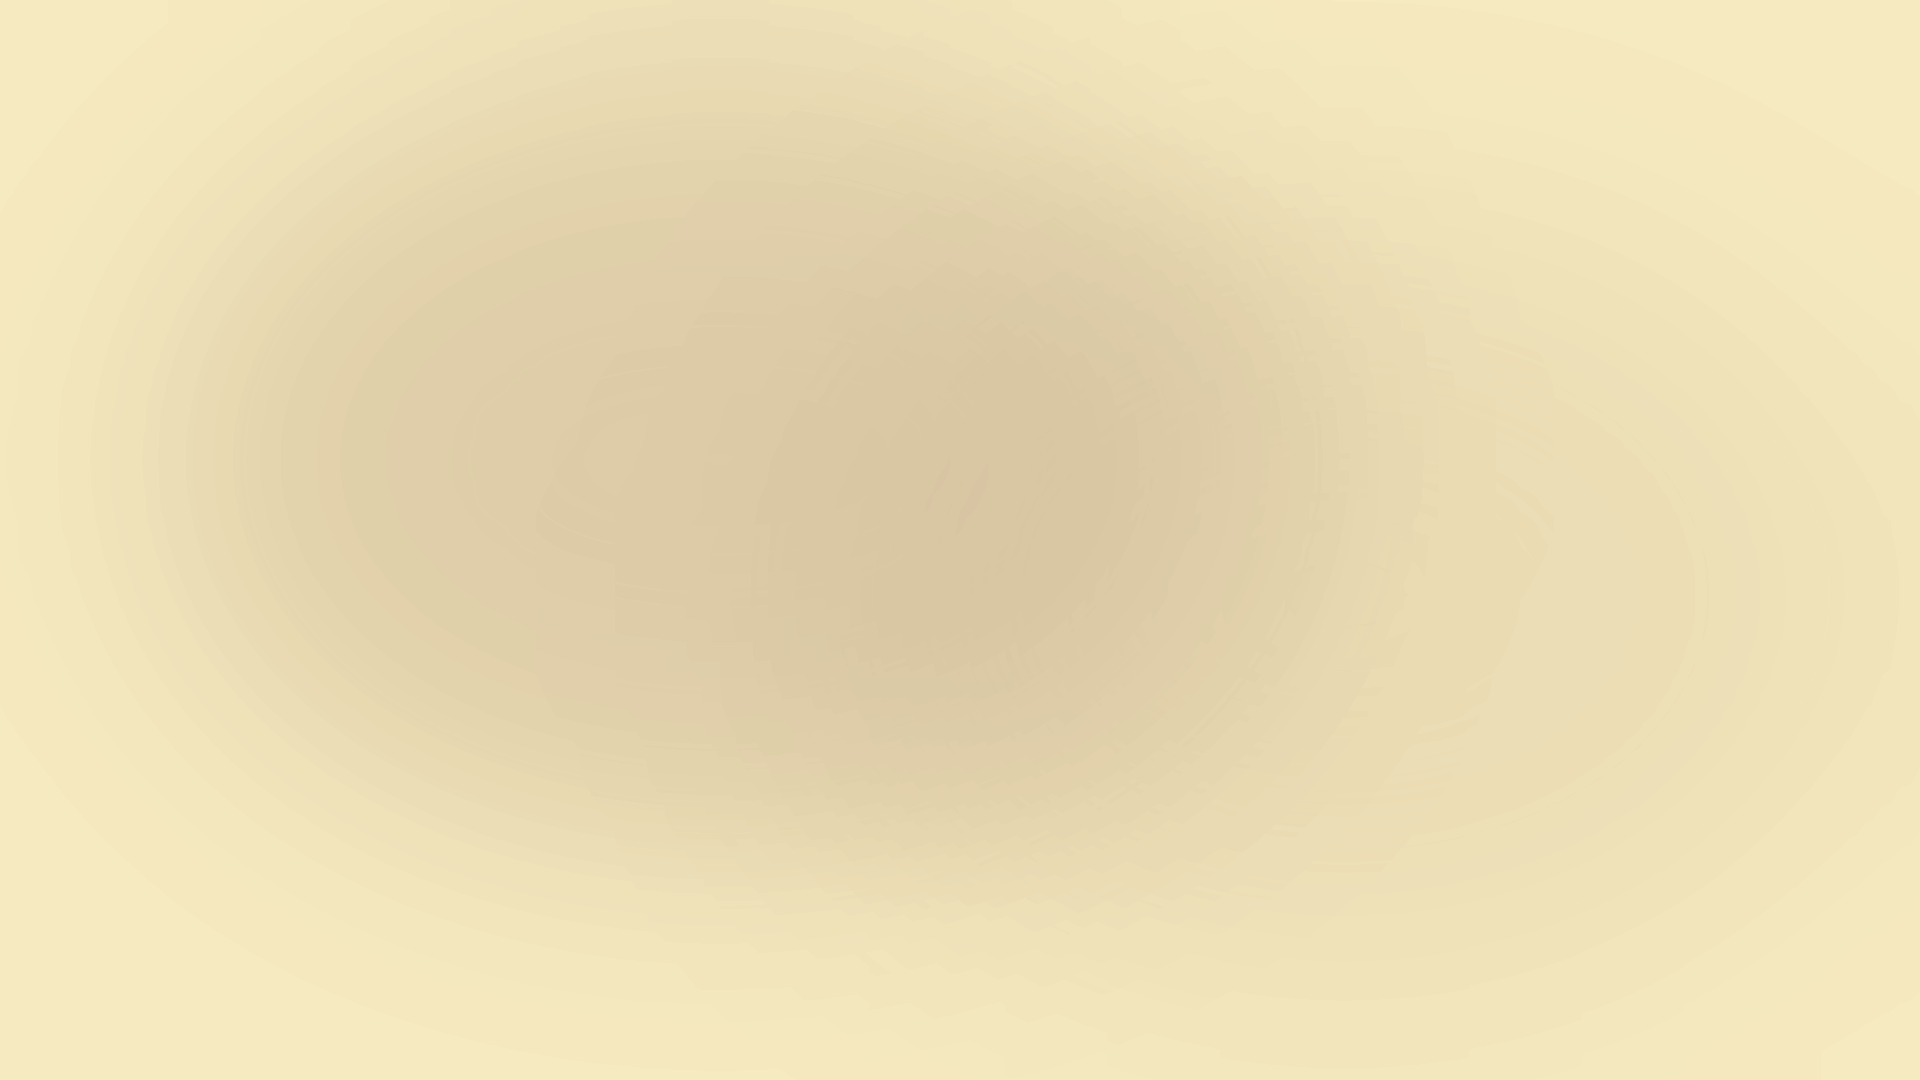
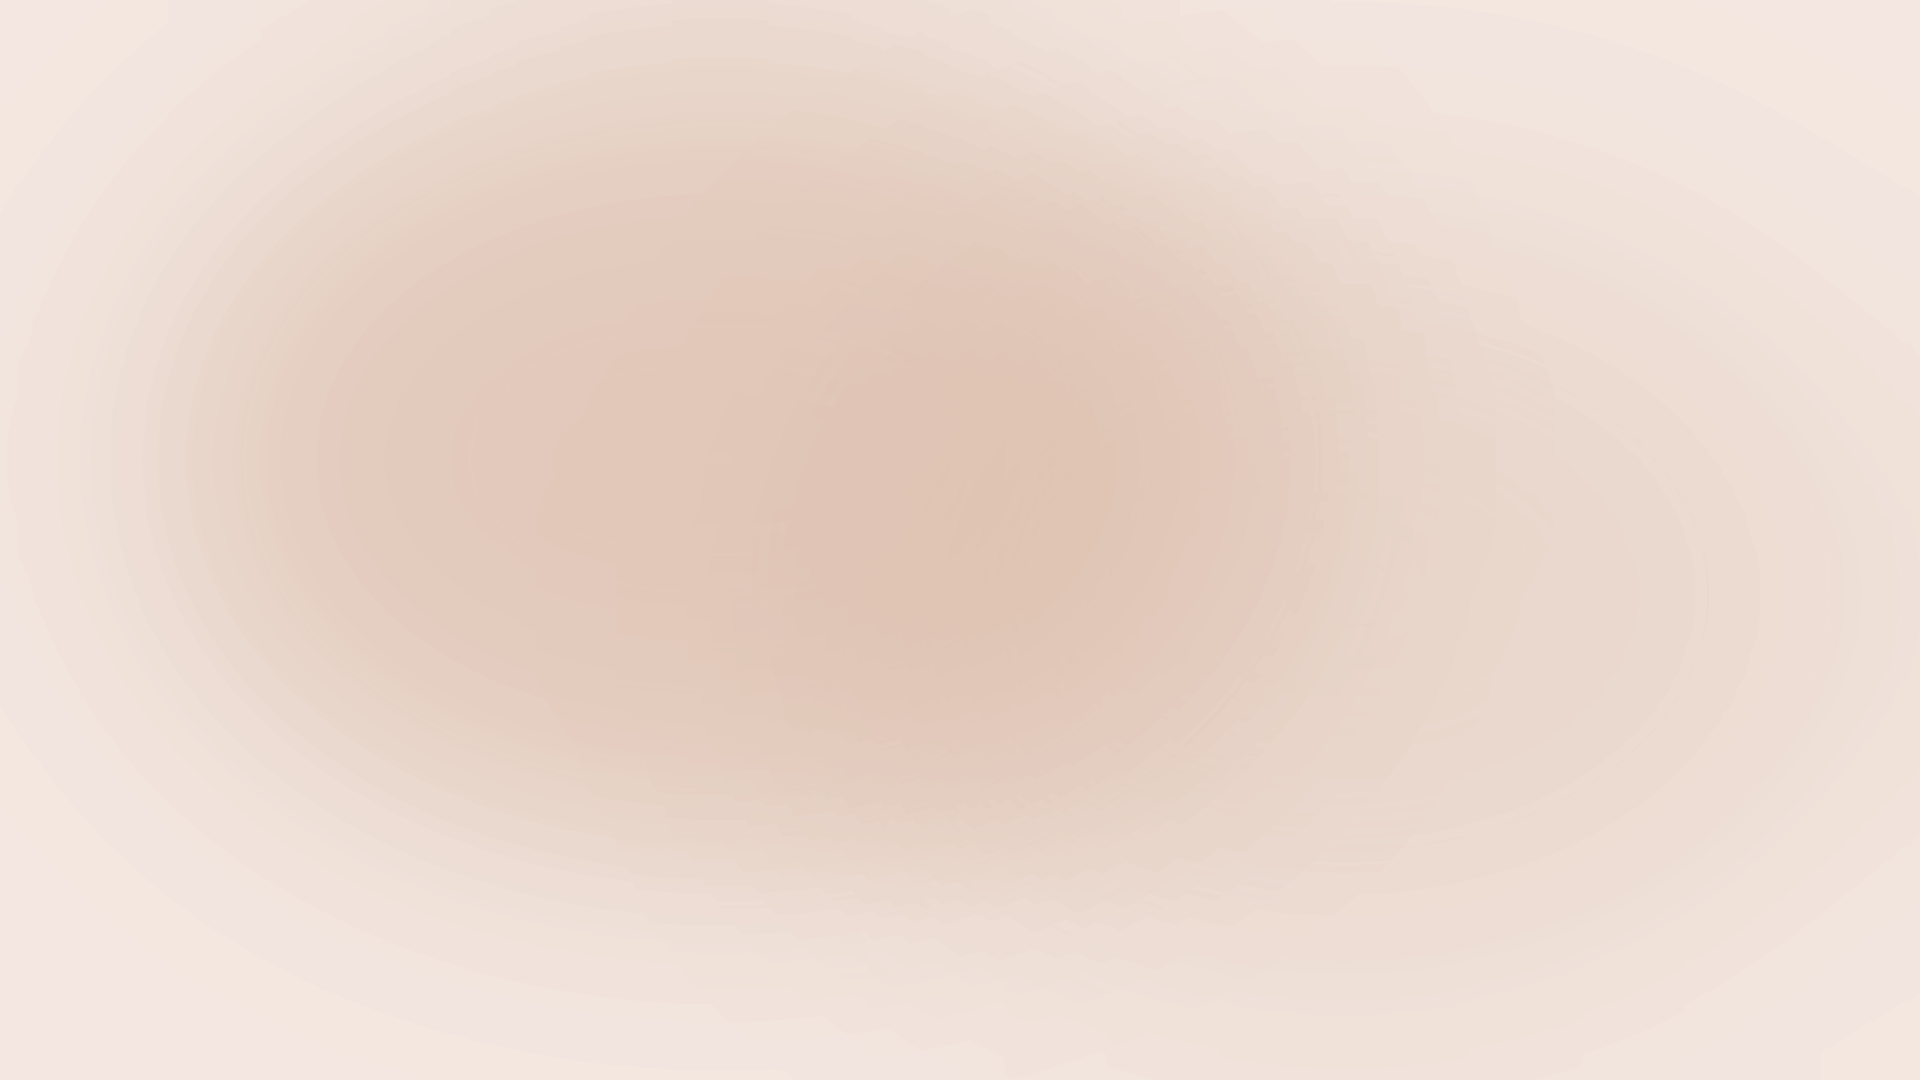
style: refine Zoey Nostalgia into a pink-tinted Gruvbox Light palette with rose parchment canvas and deep espresso text

diff --git a/quickshell/theme/Theme.qml b/quickshell/theme/Theme.qml
@@ -19,7 +19,7 @@ Item {
         { category: "Zoey Pink",   name: "Zoey Pink",   isDark: false, accent: "#ec4899", subAccent: "#a855f7", bg: "#fff0f5", surface: "#fbcfe8", currentLine: "#f472b6", fg: "#4a044e", cyan: "#06b6d4", green: "#10b981", orange: "#f97316", pink: "#ec4899", purple: "#a855f7", red: "#ef4444", yellow: "#eab308" },
         { category: "Zoey Pink",   name: "Zoey Night",  isDark: true,  accent: "#f472b6", subAccent: "#c084fc", bg: "#251c2e", surface: "#33263e", currentLine: "#483659", fg: "#f5e6f8", cyan: "#38bdf8", green: "#4ade80", orange: "#fb923c", pink: "#f472b6", purple: "#c084fc", red: "#f87171", yellow: "#facc15" },
         { category: "Zoey Pink",   name: "Emo Zoey",    isDark: true,  accent: "#ff2a85", subAccent: "#9333ea", bg: "#120914", surface: "#1c0d20", currentLine: "#32143a", fg: "#f4d7f7", cyan: "#22d3ee", green: "#22c55e", orange: "#ff7849", pink: "#ff2a85", purple: "#9333ea", red: "#ff3366", yellow: "#ffd000" },
-        { category: "Zoey Pink",   name: "Zoey Nostalgia", isDark: false, accent: "#d35b80", subAccent: "#427b58", bg: "#fbf1c7", surface: "#ebdbb2", currentLine: "#d5c4a1", fg: "#3c3836", comment: "#928374", cyan: "#427b58", green: "#79740e", orange: "#af3a03", pink: "#d35b80", purple: "#8f3f71", red: "#9d0006", yellow: "#b57614" },
+        { category: "Zoey Pink",   name: "Zoey Nostalgia", isDark: false, accent: "#d85078", subAccent: "#8f3f71", bg: "#faf0ec", surface: "#ebdcd3", currentLine: "#dfc4b4", fg: "#362828", comment: "#928374", cyan: "#427b58", green: "#79740e", orange: "#af3a03", pink: "#d85078", purple: "#8f3f71", red: "#af3a03", yellow: "#b57614" },
 
         // Dracula Pro (Official Palette from dracula-pro/design/palette.md)
         { category: "Dracula Pro", name: "Pro",      isDark: true,  accent: "#9580ff", subAccent: "#ff80bf", bg: "#22212c", surface: "#2b2938", currentLine: "#454158", fg: "#f8f8f2", comment: "#7970a9", cyan: "#80ffea", green: "#8aff80", orange: "#ffca80", pink: "#ff80bf", purple: "#9580ff", red: "#ff9580", yellow: "#ffff80" },

diff --git a/quickshell/services/python/theme_sync.py b/quickshell/services/python/theme_sync.py
@@ -864,12 +864,12 @@ def sync_vscode(bg, surface, current_line, fg, accent, sub_accent, is_dark, vari
     elif "zoey" in v_lower:
         if "nostalgia" in v_lower:
             comment_color = "#928374"
-            keyword_color = "#d35b80"   # Retro Dusty Zoey Pink
-            function_color = "#427b58"  # Vintage Teal
-            type_color = "#b57614"      # Vintage Mustard
-            string_color = "#79740e"    # Vintage Olive Green
-            number_color = "#af3a03"    # Vintage Terracotta
-            operator_color = "#8f3f71"  # Vintage Mauve
+            keyword_color = "#d85078"   # Zoey Pink Vintage Rose
+            function_color = "#8f3f71"  # Gruvbox Vintage Mauve
+            type_color = "#b57614"      # Gruvbox Vintage Gold
+            string_color = "#79740e"    # Gruvbox Vintage Olive Green
+            number_color = "#af3a03"    # Gruvbox Vintage Terracotta
+            operator_color = "#427b58"  # Gruvbox Vintage Teal
         elif is_dark:
             comment_color = "#94a3b8"
             keyword_color = "#f472b6"   # Pink
@@ -1533,7 +1533,7 @@ PREDEFINED_VARIANTS = [
     {"name": "Zoey Pink", "isDark": False, "accent": "#ec4899", "bg": "#fff0f5", "surface": "#fbcfe8", "currentLine": "#f472b6", "fg": "#4a044e"},
     {"name": "Zoey Night", "isDark": True, "accent": "#f472b6", "bg": "#251c2e", "surface": "#33263e", "currentLine": "#483659", "fg": "#f5e6f8"},
     {"name": "Emo Zoey", "isDark": True, "accent": "#ff2a85", "bg": "#120914", "surface": "#1c0d20", "currentLine": "#32143a", "fg": "#f4d7f7"},
-    {"name": "Zoey Nostalgia", "isDark": False, "accent": "#d35b80", "bg": "#fbf1c7", "surface": "#ebdbb2", "currentLine": "#d5c4a1", "fg": "#3c3836"},
+    {"name": "Zoey Nostalgia", "isDark": False, "accent": "#d85078", "bg": "#faf0ec", "surface": "#ebdcd3", "currentLine": "#dfc4b4", "fg": "#362828"},
 
     {"name": "Pro", "isDark": True, "accent": "#9580ff", "bg": "#22212c", "surface": "#2b2938", "currentLine": "#454158", "fg": "#f8f8f2"},
     {"name": "Blade", "isDark": True, "accent": "#80ffea", "bg": "#212c2a", "surface": "#293835", "currentLine": "#415854", "fg": "#f8f8f2"},

diff --git a/quickshell/services/python/generate_kde_colorschemes.py b/quickshell/services/python/generate_kde_colorschemes.py
@@ -6,7 +6,7 @@ variants = [
     {'name': 'Zoey Pink',        'isDark': False, 'accent': '#ec4899', 'subAccent': '#a855f7', 'bg': '#fff0f5', 'surface': '#fbcfe8', 'currentLine': '#f472b6', 'fg': '#4a044e'},
     {'name': 'Zoey Night',       'isDark': True,  'accent': '#f472b6', 'subAccent': '#c084fc', 'bg': '#251c2e', 'surface': '#33263e', 'currentLine': '#483659', 'fg': '#f5e6f8'},
     {'name': 'Emo Zoey',         'isDark': True,  'accent': '#ff2a85', 'subAccent': '#9333ea', 'bg': '#120914', 'surface': '#1c0d20', 'currentLine': '#32143a', 'fg': '#f4d7f7'},
-    {'name': 'Zoey Nostalgia',   'isDark': False, 'accent': '#d35b80', 'subAccent': '#427b58', 'bg': '#fbf1c7', 'surface': '#ebdbb2', 'currentLine': '#d5c4a1', 'fg': '#3c3836'},
+    {'name': 'Zoey Nostalgia',   'isDark': False, 'accent': '#d85078', 'subAccent': '#8f3f71', 'bg': '#faf0ec', 'surface': '#ebdcd3', 'currentLine': '#dfc4b4', 'fg': '#362828'},
 
     # Dracula Pro
     {'name': 'Pro',              'isDark': True,  'accent': '#9580ff', 'subAccent': '#ff80bf', 'bg': '#22212c', 'surface': '#2b2938', 'currentLine': '#454158', 'fg': '#f8f8f2'},
